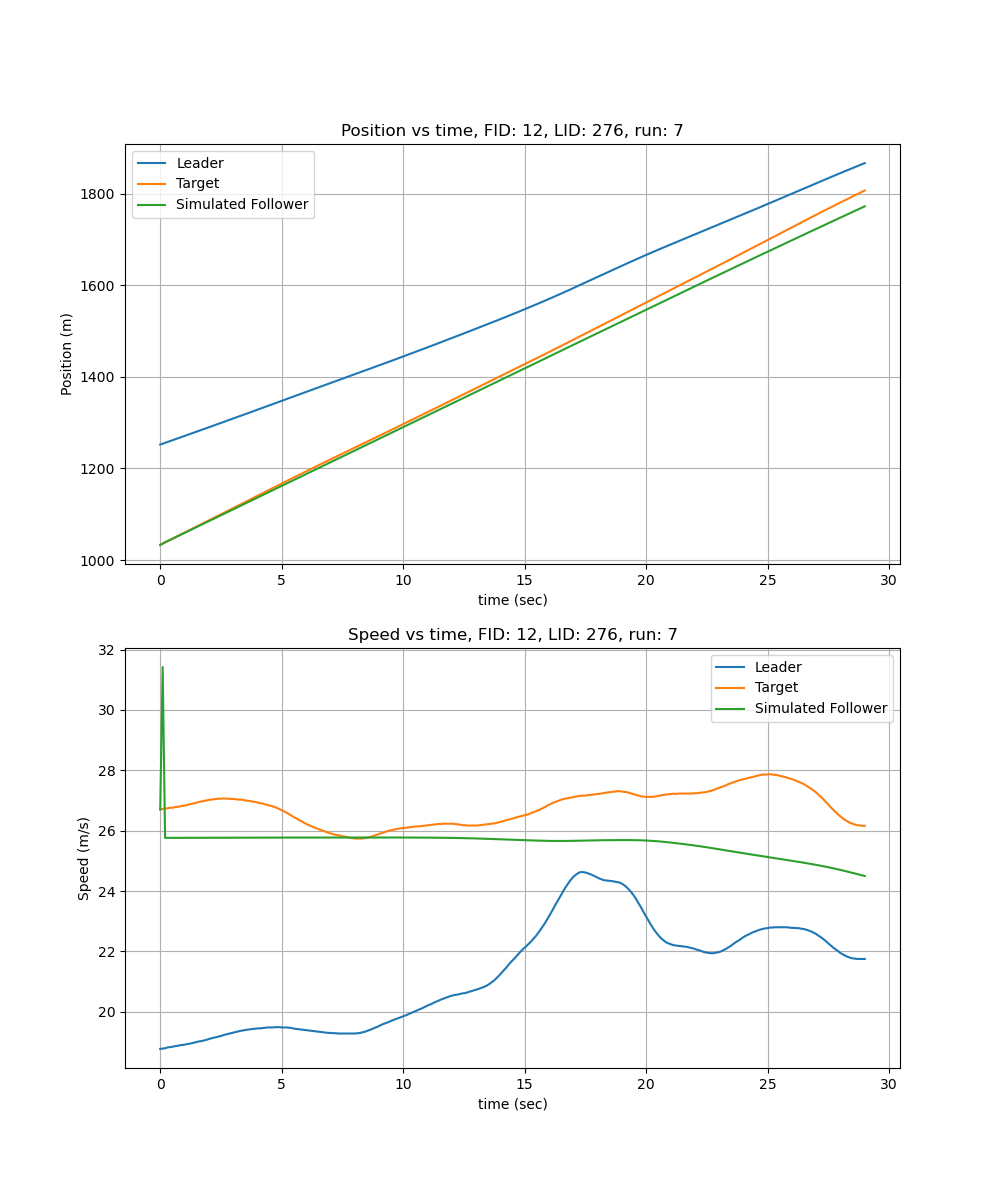
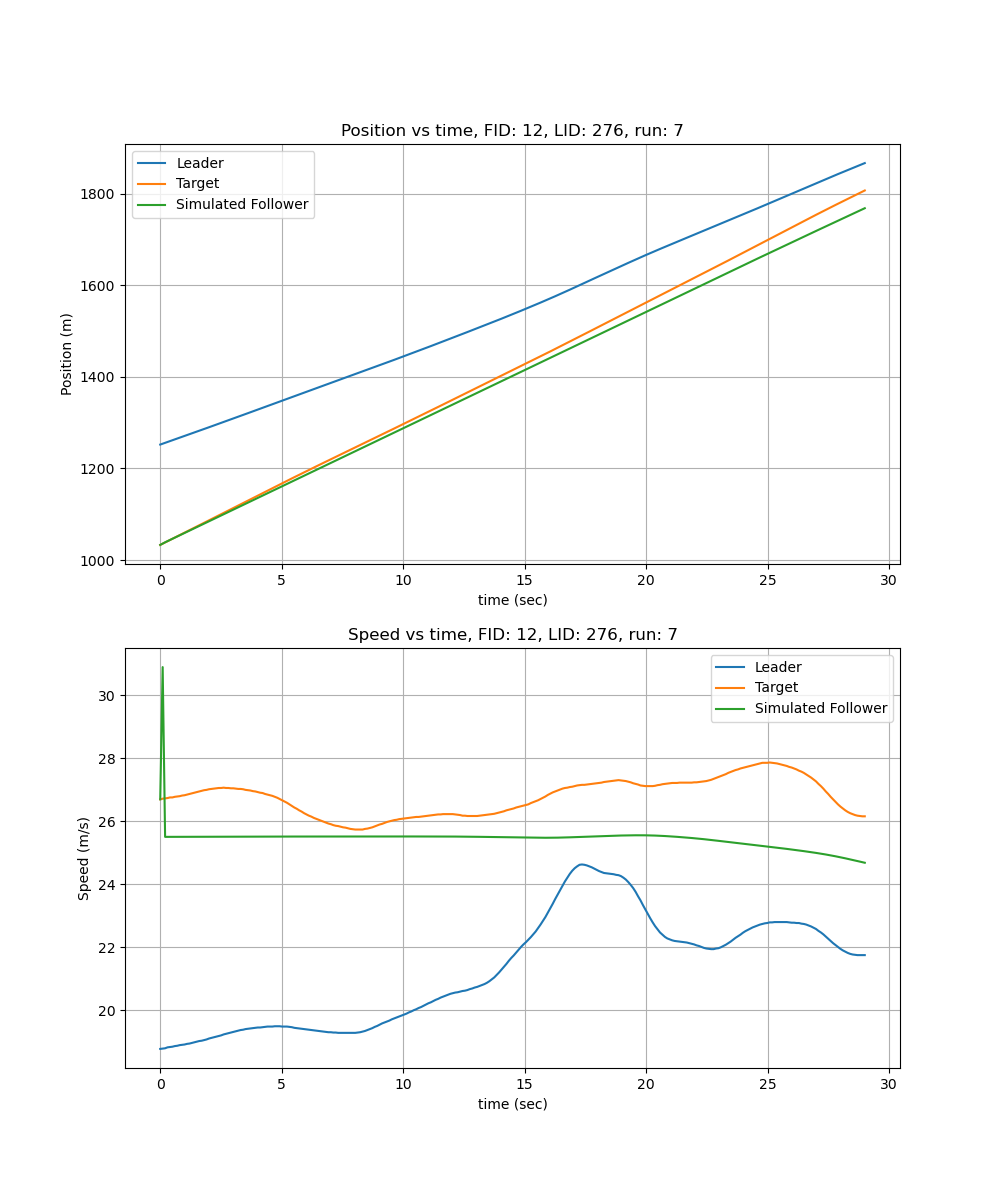
continue tomorrow

diff --git a/03CSF.py b/03CSF.py
@@ -211,15 +211,15 @@ def acceleration_calculator(i, vehicle_dict, dmin, td, K, lamb,gamma,ji,Dstop):
 
     # Extract relevant parameters
     gap_error = vehicle_dict['gap'] + Dstop
-    ei_dot = vehicle_dict['deltav'] 
+    epsilon_dot = vehicle_dict['deltav'] 
     vi = vehicle_dict['speed']
- 
-    # Compute denominator for acceleration calculation
-    # denominator = max(td - gamma * ji * vi, 0.1)
-    denominator = td - gamma * ji * vi
 
-    # Compute acceleration based on spacing error and relative velocity
-    accl = -(1 / denominator) * (ei_dot + lamb * gap_error)  
+    gap_error = np.clip(gap_error, -1e3, 1e3)
+    epsilon_dot = np.clip(epsilon_dot, -1e3, 1e3)
+  
+    denominator = td - gamma * ji * vi
+ 
+    accl = -(1 / denominator) * (epsilon_dot + lamb * gap_error)  
     return accl
 
 

diff --git a/04HDB.py b/04HDB.py
@@ -207,7 +207,9 @@ def acceleration_calculator(i, vehicle_dict, A,Th,Ta,G,tau,lamb) :
     speed_error = vehicle_dict['deltav']
     vi = vehicle_dict['speed']
     temp_accl = vehicle_dict['accl']
- 
+
+    gap_error = np.clip(gap_error, -1e3, 1e3)
+    speed_error = np.clip(speed_error, -1e3, 1e3) 
 
     accl = ((1 - ((tau*Th) /Ta))*temp_accl)  + ((tau*speed_error)/Ta) + ((tau*lamb*gap_error)/Ta) 
     return accl
